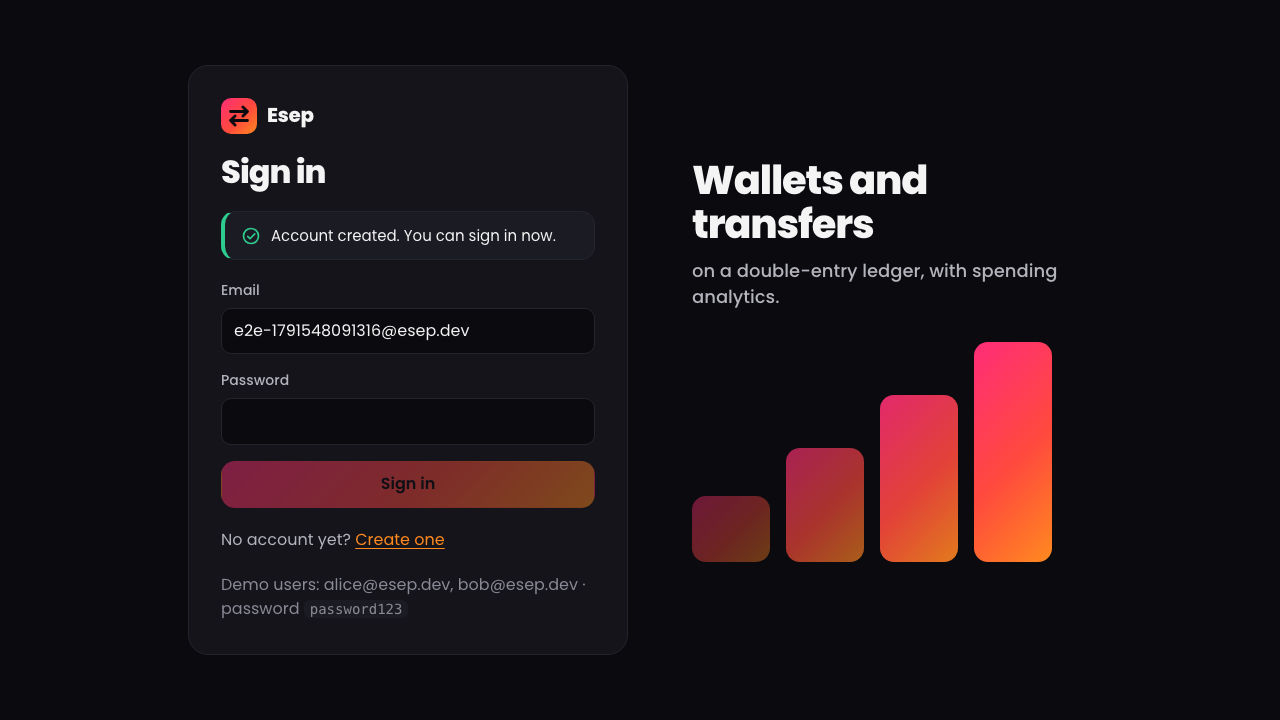
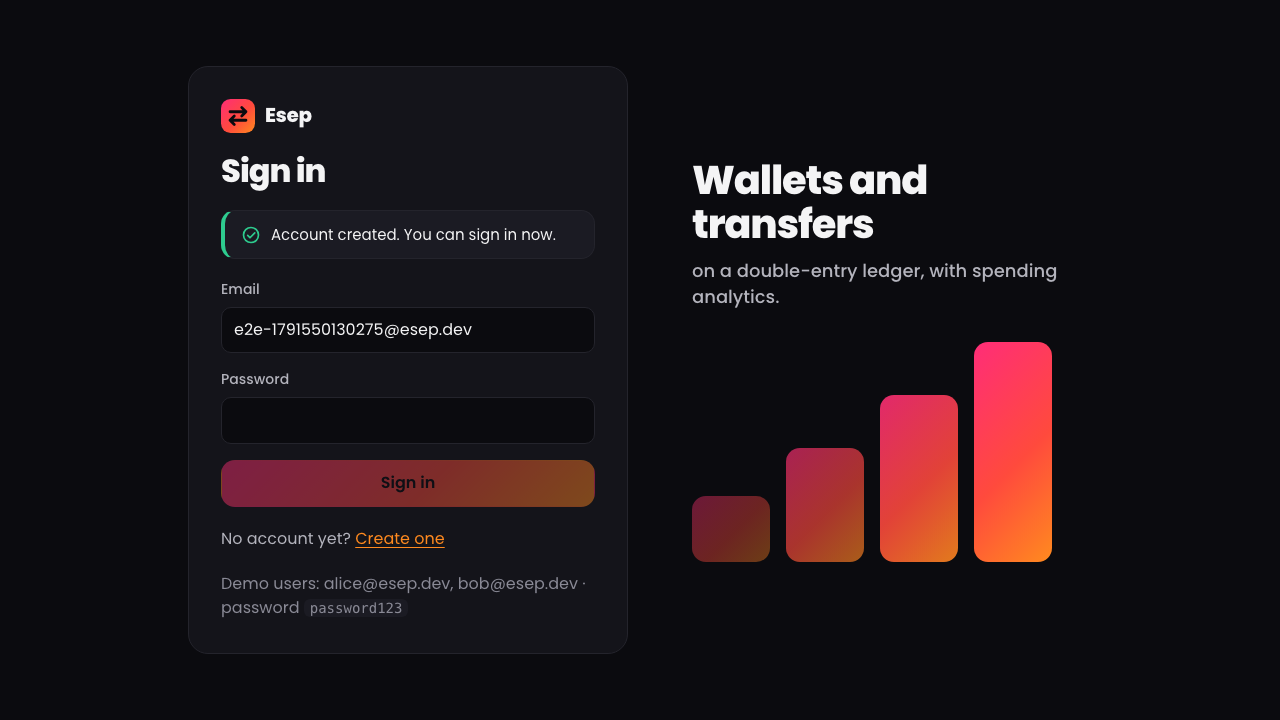
Update the smoke test for the transfer sheet and refresh screenshots

diff --git a/e2e/smoke.spec.ts b/e2e/smoke.spec.ts
@@ -5,13 +5,13 @@ const SHOTS = process.env.E2E_SCREENSHOTS ? 'docs/screenshots' : null
 const PASSWORD = 'password123'
 
 /** Full-page screenshots at desktop (1280 px) and phone (390 px) width; only with E2E_SCREENSHOTS set. */
-async function shot(page: Page, name: string) {
+async function shot(page: Page, name: string, fullPage = true) {
   if (!SHOTS) return
   const desktop = page.viewportSize()!
   for (const width of [1280, 390]) {
     await page.setViewportSize({ width, height: width === 390 ? 844 : desktop.height })
     await page.waitForTimeout(300)   // let ResponsiveContainer re-measure the charts
-    await page.screenshot({ path: `${SHOTS}/${name}-${width}.png`, fullPage: true })
+    await page.screenshot({ path: `${SHOTS}/${name}-${width}.png`, fullPage })
   }
   await page.setViewportSize(desktop)
 }
@@ -46,6 +46,16 @@ async function adminDeposit(accountId: number, amount: string) {
   expect(response.status).toBe(201)
 }
 
+/** Steps of the transfer sheet up to the confirmation screen; `shotName` captures the amount step. */
+async function transferSteps(page: Page, recipient: number, amount: string, shotName?: string) {
+  await page.getByRole('button', { name: 'Continue' }).click()   // source account (preselected)
+  await page.getByLabel('To account number').fill(String(recipient))
+  await page.getByRole('button', { name: 'Continue' }).click()
+  await page.getByLabel(/Amount/).fill(amount)
+  if (shotName) await shot(page, shotName, false)   // a modal: the viewport, not the page behind it
+  await page.getByRole('button', { name: 'Continue' }).click()
+}
+
 test('a new user registers, receives money, transfers it and sees history and analytics', async ({ page }) => {
   const email = `e2e-${Date.now()}@esep.dev`
   const recipient = await bobsKztAccount()
@@ -75,35 +85,36 @@ test('a new user registers, receives money, transfers it and sees history and an
   await expect(card.locator('.balance')).toContainText('500')
   await shot(page, '02-accounts')
 
-  // transfer
-  await page.getByRole('link', { name: 'Transfer', exact: true }).click()
-  await page.getByLabel('To account number').fill(String(recipient))
-  await page.getByLabel(/Amount/).fill('120.5')
+  // transfer: a sheet in steps (source -> recipient -> amount -> confirm)
+  const nav = page.getByRole('navigation', { name: 'Main' })
+  await nav.getByRole('link', { name: 'Transfer' }).click()
+  await transferSteps(page, recipient, '120.5', '03-transfer')
   await page.getByRole('button', { name: 'Send' }).click()
   await expect(page.getByText('Transfer completed')).toBeVisible()
-  await shot(page, '03-transfer')
+  await shot(page, '04-transfer-success', false)
 
   // business error is shown in plain words
-  await page.getByLabel('To account number').fill(String(recipient))
-  await page.getByLabel(/Amount/).fill('99999')
+  await page.getByRole('button', { name: 'New transfer' }).click()
+  await transferSteps(page, recipient, '99999')
   await page.getByRole('button', { name: 'Send' }).click()
   await expect(page.getByText('Not enough money on the account.')).toBeVisible()
+  await page.getByRole('button', { name: 'Close transfer' }).click()
 
   // history: newest first, filters
-  await page.getByRole('link', { name: 'History' }).click()
+  await nav.getByRole('link', { name: 'History' }).click()
   const rows = page.locator('tbody tr')
   await expect(rows).toHaveCount(2)
   await expect(rows.first()).toContainText('outgoing')
   await expect(rows.first()).toContainText('120.5')
   await expect(rows.nth(1)).toContainText('Top-up')
-  await shot(page, '04-history')
+  await shot(page, '05-history')
 
   // analytics: the transfer is counted, charts are rendered
-  await page.getByRole('link', { name: 'Analytics' }).click()
+  await nav.getByRole('link', { name: 'Analytics' }).click()
   await expect(page.locator('.stat').first()).toContainText('120.5')
   await expect(page.locator('.chart svg').first()).toBeVisible()
   await expect(page.getByRole('heading', { name: 'Largest transfers' })).toBeVisible()
-  await shot(page, '05-analytics')
+  await shot(page, '06-analytics')
 })
 
 test('an expired token sends the user back to the login page with an explanation', async ({ page }) => {

diff --git a/README.md b/README.md
@@ -6,9 +6,9 @@
 Frontend for **[esep-api](https://github.com/Bakhyzh/esep-api)**: wallets, transfers on a double-entry ledger
 and spending analytics.
 
-**Stack:** React 19 · TypeScript · Vite · React Router · Recharts · Vitest · Playwright · `fetch`
+**Stack:** React 19 · TypeScript · Vite · React Router · Recharts · Motion · Lucide · Vitest · Playwright · `fetch`
 
-![Analytics](docs/screenshots/05-analytics-1280.png)
+![Accounts](docs/screenshots/02-accounts-1280.png)
 
 ## Live demo
 
@@ -21,8 +21,8 @@ and spending analytics.
 | Screen | What it does |
 |---|---|
 | Sign in / Register | JWT login; the token is sent as `Authorization: Bearer ...` |
-| Accounts | List of accounts with balances, open an account, close an empty one, latest notifications (delivered through Kafka) |
-| Transfer | Send money; the client generates the `Idempotency-Key`, so "Try again" after a network error never pays twice |
+| Accounts (home) | Greeting and balance per currency (never summed across currencies), accounts as flippable bank cards (details, top up, transfer, close), quick actions, recent operations by day, 30-day spending sparkline and top 3 transfers. Notifications (Kafka) are in the header bell |
+| Transfer | A sheet over the current page (bottom sheet on phones, modal on desktop): source, recipient, amount, confirm, success. The client generates the `Idempotency-Key`, so "Try again" after a network error never pays twice |
 | History | Operations of all accounts, newest first: pagination, account and date filters kept in the URL |
 | Analytics | Spending by day/week/month, daily spending with a 7-day moving average, largest transfers, month over month |
 
@@ -30,14 +30,15 @@ Desktop (1280 px):
 
 | | |
 |---|---|
-| ![Sign in](docs/screenshots/01-login-1280.png) | ![Accounts](docs/screenshots/02-accounts-1280.png) |
-| ![Transfer](docs/screenshots/03-transfer-1280.png) | ![History](docs/screenshots/04-history-1280.png) |
+| ![Accounts](docs/screenshots/02-accounts-1280.png) | ![Transfer: amount step](docs/screenshots/03-transfer-1280.png) |
+| ![Transfer completed](docs/screenshots/04-transfer-success-1280.png) | ![History](docs/screenshots/05-history-1280.png) |
+| ![Analytics](docs/screenshots/06-analytics-1280.png) | ![Sign in](docs/screenshots/01-login-1280.png) |
 
 Phone (390 px):
 
-| Sign in | Accounts | Transfer | History | Analytics |
+| Accounts | Transfer | Success | History | Analytics |
 |---|---|---|---|---|
-| ![Sign in](docs/screenshots/01-login-390.png) | ![Accounts](docs/screenshots/02-accounts-390.png) | ![Transfer](docs/screenshots/03-transfer-390.png) | ![History](docs/screenshots/04-history-390.png) | ![Analytics](docs/screenshots/05-analytics-390.png) |
+| ![Accounts](docs/screenshots/02-accounts-390.png) | ![Transfer](docs/screenshots/03-transfer-390.png) | ![Success](docs/screenshots/04-transfer-success-390.png) | ![History](docs/screenshots/05-history-390.png) | ![Analytics](docs/screenshots/06-analytics-390.png) |
 
 Screenshots are taken by the smoke test: `E2E_SCREENSHOTS=1 npm run e2e` (both widths).
 
@@ -136,5 +137,14 @@ e2e/            Playwright smoke test
   brand gradient is used only for primary buttons, the logo, the active menu item and decor; errors are always an
   icon plus text, and debit/credit amounts differ by sign (`−` / `+`), not only by color. Text pairs pass WCAG AA
   (lowest: `--danger` on cards, 4.9:1).
+- **Motion.** Cascades, card slide-in, page fade + 8 px, sheet and toast entries, card tilt/glare/flip, shimmer
+  and the success check: transform and opacity only. All of it is off with `prefers-reduced-motion` or
+  `html.no-motion` (`?motion=off` before the `#`, or `localStorage esep.motion=off`); Playwright runs with
+  `reducedMotion: 'reduce'`. `motion` is loaded with `LazyMotion` + `domAnimation`.
+- **Money on screen.** Balances are shown exactly as the API sent them; the count-up only animates the text and
+  always ends on the exact formatted value. Sums (30-day spending) use integer units of 0.0001 with `BigInt`
+  (`lib/decimal.ts`), never float addition. Balances in different currencies are never added together.
+- **Top up.** esep-api has no self-service deposit (deposits are an admin operation), so "Top up" shows the
+  account number to share and copy instead of inventing a payment flow.
 - **No state library.** Server data is loaded per page; there is little shared client state (only the session),
   so React context is enough.
